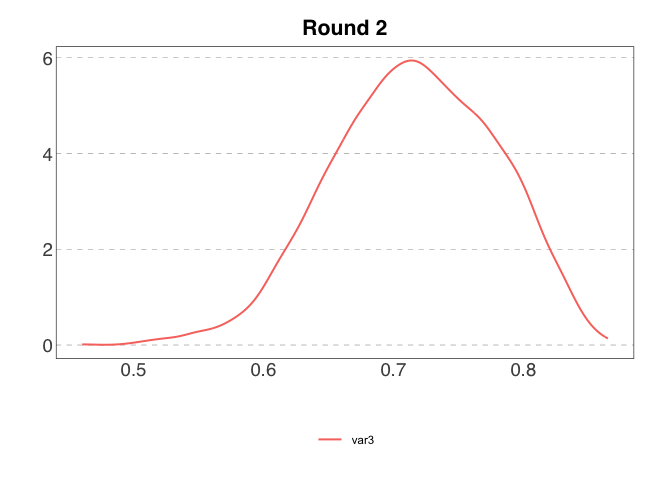
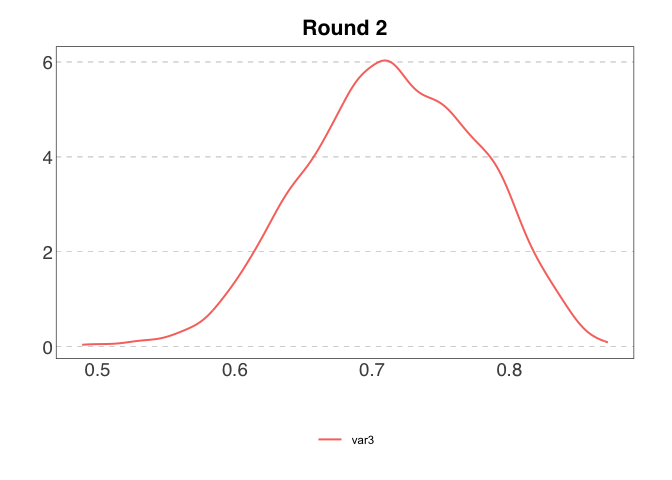
Update documentation

diff --git a/README.md b/README.md
@@ -37,7 +37,10 @@ You can install the development version of elicitr from GitHub with:
 
 ``` r
 # install.packages("pak")
-pak::pak("CREWdecisions/elicitr")
+#pak::pak("CREWdecisions/elicitr")
+install.packages("elicitr", 
+                 repos = c('https://crewdecisions.r-universe.dev',
+                 'https://cloud.r-project.org'))
 ```
 
 ## How elicitr works
@@ -56,6 +59,9 @@ variables.
 
 ``` r
 library(elicitr)
+#> Registered S3 method overwritten by 'lme4':
+#>   method           from
+#>   na.action.merMod car
 ```
 
 ### Elicitation of continuous variables
@@ -190,16 +196,16 @@ samp_cont
 #> # A tibble: 18,000 × 3
 #>    id      var   value
 #>    <chr>   <chr> <dbl>
-#>  1 5ac97e0 var1      1
-#>  2 5ac97e0 var1      1
-#>  3 5ac97e0 var1      1
+#>  1 5ac97e0 var1     -2
+#>  2 5ac97e0 var1      0
+#>  3 5ac97e0 var1     -2
 #>  4 5ac97e0 var1     -2
 #>  5 5ac97e0 var1     -2
-#>  6 5ac97e0 var1     -4
-#>  7 5ac97e0 var1      0
+#>  6 5ac97e0 var1     -2
+#>  7 5ac97e0 var1     -2
 #>  8 5ac97e0 var1     -4
-#>  9 5ac97e0 var1     -4
-#> 10 5ac97e0 var1      1
+#>  9 5ac97e0 var1      0
+#> 10 5ac97e0 var1     -2
 #> # ℹ 17,990 more rows
 ```
 
@@ -211,8 +217,8 @@ summary(samp_cont)
 #>   Var      Min     Q1 Median   Mean     Q3    Max
 #>   <chr>  <dbl>  <dbl>  <dbl>  <dbl>  <dbl>  <dbl>
 #> 1 var1  -4     -2     -2     -1.01   1      1    
-#> 2 var2  11.0   14.5   16.3   16.3   18.4   22.7  
-#> 3 var3   0.460  0.672  0.717  0.715  0.763  0.865
+#> 2 var2  11.0   14.4   16.3   16.3   18.4   22.9  
+#> 3 var3   0.489  0.671  0.714  0.714  0.761  0.872
 ```
 
 And plotted as violin plots:
@@ -356,16 +362,16 @@ samp_cat_unweighted
 #> # A tibble: 2,400 × 7
 #>    id      option   category_1 category_2 category_3 category_4 category_5
 #>    <chr>   <chr>         <dbl>      <dbl>      <dbl>      <dbl>      <dbl>
-#>  1 5ac97e0 option_1     0.0553          0      0.849    0.0159      0.0798
-#>  2 5ac97e0 option_1     0.0974          0      0.842    0.0173      0.0429
-#>  3 5ac97e0 option_1     0.0844          0      0.879    0.00321     0.0332
-#>  4 5ac97e0 option_1     0.0846          0      0.869    0.00919     0.0367
-#>  5 5ac97e0 option_1     0.0995          0      0.843    0.00974     0.0482
-#>  6 5ac97e0 option_1     0.0652          0      0.882    0.00673     0.0461
-#>  7 5ac97e0 option_1     0.0648          0      0.872    0.0239      0.0394
-#>  8 5ac97e0 option_1     0.0795          0      0.837    0.00301     0.0809
-#>  9 5ac97e0 option_1     0.0751          0      0.873    0.0277      0.0240
-#> 10 5ac97e0 option_1     0.0755          0      0.853    0.00846     0.0626
+#>  1 5ac97e0 option_1     0.112           0      0.832    0.00432     0.0515
+#>  2 5ac97e0 option_1     0.0615          0      0.865    0.0283      0.0447
+#>  3 5ac97e0 option_1     0.112           0      0.834    0.0208      0.0327
+#>  4 5ac97e0 option_1     0.140           0      0.784    0.0122      0.0644
+#>  5 5ac97e0 option_1     0.0291          0      0.925    0.0217      0.0247
+#>  6 5ac97e0 option_1     0.0464          0      0.904    0.0197      0.0298
+#>  7 5ac97e0 option_1     0.0531          0      0.828    0.0546      0.0639
+#>  8 5ac97e0 option_1     0.0401          0      0.910    0.0136      0.0364
+#>  9 5ac97e0 option_1     0.0867          0      0.832    0.0250      0.0564
+#> 10 5ac97e0 option_1     0.0982          0      0.837    0.0165      0.0487
 #> # ℹ 2,390 more rows
 
 samp_cat_weighted <- cat_sample_data(my_elic_cat,
@@ -376,16 +382,16 @@ samp_cat_weighted
 #> # A tibble: 1,800 × 7
 #>    id      option   category_1 category_2 category_3 category_4 category_5
 #>    <chr>   <chr>         <dbl>      <dbl>      <dbl>      <dbl>      <dbl>
-#>  1 5ac97e0 option_1    0.0143     0.0222    0.00247       0.907     0.0543
-#>  2 5ac97e0 option_1    0.0506     0.00409   0.00775       0.853     0.0842
-#>  3 5ac97e0 option_1    0.00573    0.0217    0.000407      0.898     0.0738
-#>  4 5ac97e0 option_1    0.0280     0.0331    0.0287        0.793     0.117 
-#>  5 5ac97e0 option_1    0.0228     0.0127    0.00122       0.901     0.0625
-#>  6 5ac97e0 option_1    0.0123     0.0801    0.00360       0.878     0.0256
-#>  7 5ac97e0 option_1    0.0495     0.00561   0.00775       0.807     0.130 
-#>  8 5ac97e0 option_1    0.0161     0.0277    0.00144       0.856     0.0985
-#>  9 5ac97e0 option_1    0.0214     0.0119    0.00641       0.859     0.101 
-#> 10 5ac97e0 option_1    0.0266     0.0283    0.00177       0.833     0.110 
+#>  1 5ac97e0 option_1    0.0129     0.0134     0.00217      0.911     0.0608
+#>  2 5ac97e0 option_1    0.0206     0.0363     0.00823      0.850     0.0847
+#>  3 5ac97e0 option_1    0.00614    0.0111     0.00153      0.903     0.0781
+#>  4 5ac97e0 option_1    0.0152     0.0251     0.00850      0.823     0.128 
+#>  5 5ac97e0 option_1    0.00693    0.0130     0.00393      0.872     0.104 
+#>  6 5ac97e0 option_1    0.0394     0.0239     0.00376      0.849     0.0843
+#>  7 5ac97e0 option_1    0.00255    0.00742    0.00600      0.918     0.0665
+#>  8 5ac97e0 option_1    0.00862    0.0490     0.00199      0.812     0.128 
+#>  9 5ac97e0 option_1    0.0104     0.0104     0.00299      0.873     0.103 
+#> 10 5ac97e0 option_1    0.00878    0.0194     0.0104       0.843     0.118 
 #> # ℹ 1,790 more rows
 ```
 
@@ -394,13 +400,13 @@ And the sample summarised:
 ``` r
 summary(samp_cat_unweighted, option = "option_2")
 #> # A tibble: 5 × 7
-#>   Category       Min     Q1 Median   Mean    Q3   Max
-#>   <chr>        <dbl>  <dbl>  <dbl>  <dbl> <dbl> <dbl>
-#> 1 category_1 0.00177 0.102  0.156  0.194  0.322 0.473
-#> 2 category_2 0.0128  0.0822 0.129  0.205  0.351 0.612
-#> 3 category_3 0.00735 0.128  0.208  0.226  0.290 0.603
-#> 4 category_4 0.00138 0.0280 0.0694 0.0958 0.145 0.359
-#> 5 category_5 0.00292 0.149  0.246  0.280  0.349 0.787
+#>   Category        Min     Q1 Median   Mean    Q3   Max
+#>   <chr>         <dbl>  <dbl>  <dbl>  <dbl> <dbl> <dbl>
+#> 1 category_1 0.000612 0.107  0.165  0.195  0.323 0.477
+#> 2 category_2 0.0233   0.0828 0.131  0.204  0.338 0.580
+#> 3 category_3 0.00560  0.120  0.208  0.226  0.297 0.564
+#> 4 category_4 0.000663 0.0278 0.0737 0.0948 0.141 0.365
+#> 5 category_5 0.000814 0.149  0.239  0.281  0.355 0.779
 ```
 
 And plotted as violin plots:
